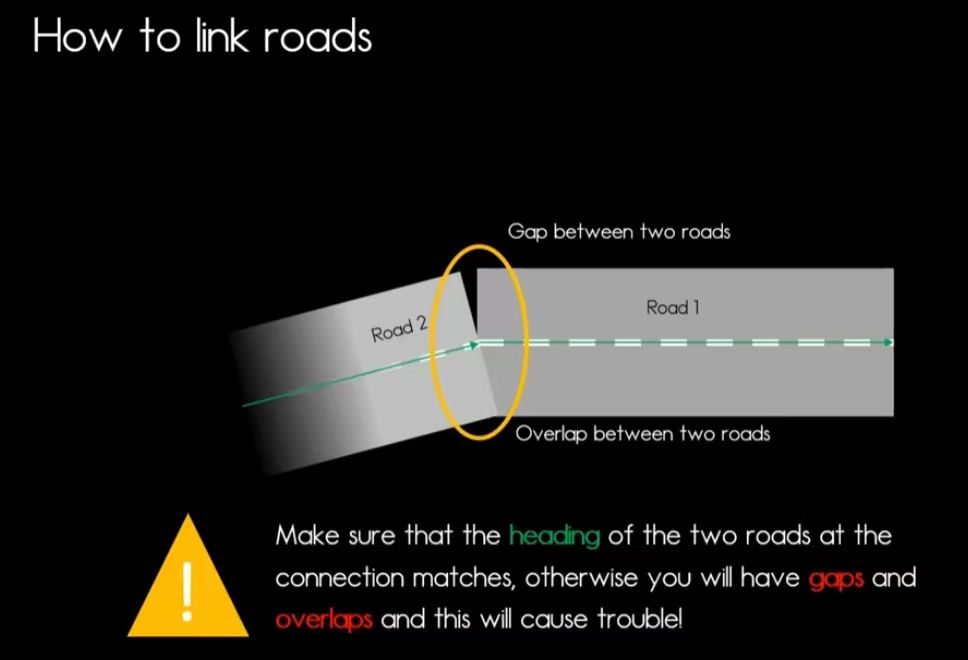
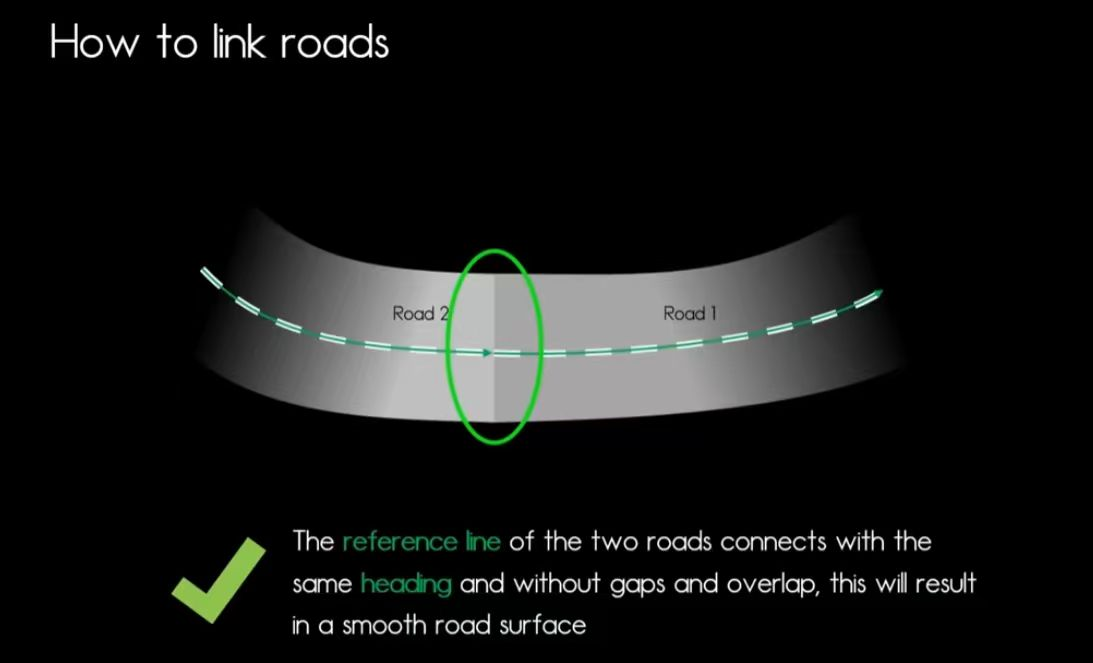
Add smooth road linkage diagram to Section 4

Changed region(s): [[0.186, 0.3333, 0.9298, 0.7273], [0.124, 0.7879, 0.9607, 0.9697], [0.031, 0.0303, 0.4029, 0.0909]]

diff --git a/WL-2/OpenDRIVE_Details.html b/WL-2/OpenDRIVE_Details.html
@@ -17,7 +17,7 @@
 
     <div class="card">
         <h2>1. 基本概念与 XML 整体结构</h2>
-        <p><strong>基本概念</strong>：OpenDRIVE 是一个基于 XML 的道路网络描述标准，核心在于通过<strong>参数化参考线 (Reference Line)</strong> 来定义道路结构。</p>
+        <p><strong>基本概念</strong>：OpenDRIVE 是一个基于 XML 的道路网络描述标准，核心在于通过参数化参考线定义道路。</p>
         <div class="diagram"><img src="xml_structure.jpg" alt="OpenDRIVE XML Structure"></div>
     </div>
 
@@ -31,16 +31,19 @@
         <img src="line_example.jpg" alt="Line Primitive Example">
         <div class="data-block">&lt;geometry length="57.3"&gt;&lt;line/&gt;&lt;/geometry&gt;</div>
     </div>
+    
     <div class="card">
         <h2>Arc (圆弧)</h2>
         <img src="arc_example.jpg" alt="Arc Primitive Example">
         <div class="data-block">&lt;geometry length="9.23"&gt;&lt;arc curvature="-0.127"/&gt;&lt;/geometry&gt;</div>
     </div>
+    
     <div class="card">
         <h2>Spiral (螺旋线)</h2>
         <img src="spiral_example.jpg" alt="Spiral Primitive Example">
         <div class="data-block">&lt;geometry length="1.32"&gt;&lt;spiral curvStart="0.0" curvEnd="0.2"/&gt;&lt;/geometry&gt;</div>
     </div>
+    
     <div class="card">
         <h2>Parametric Cubic Polynomial (参数化三次多项式)</h2>
         <img src="paramPoly3_example.jpg" alt="Parametric Cubic Polynomial Example">
@@ -55,9 +58,8 @@
     <h1>4. Road Linkage (道路连接)</h1>
     <div class="card">
         <h2>基础拓扑连接</h2>
-<div class="diagram"><img src="road_linkage_topology.jpg" alt="Road Linkage Topology"></div>
         <p>定义道路间的简单先后继关系，通过 <code>&lt;link&gt;</code> 标签建立前后继道路的索引。</p>
-        <div class="diagram"><img src="road_linkage_simple.jpg" alt="Road Linkage: Roads with roads"></div>
+        <div class="diagram"><img src="road_linkage_topology.jpg" alt="Road Linkage: Roads with roads"></div>
         <div class="data-block">
             &lt;road rule="RHT" length="100.0" id="1" junction="-1" &gt;<br>
             &nbsp;&nbsp;&lt;link&gt;<br>
@@ -68,18 +70,14 @@
         </div>
     </div>
     <div class="card">
-        <h2>平滑连接规范 (Smooth Road Linkage)</h2>
-        <div class="diagram">
-            <img src="road_linkage_smooth.jpg" alt="Standard Engineering Connectivity">
-        </div>
-        <p><strong>工程规范</strong>：这是 OpenDRIVE 连接的标准图示。连接点处的航向角 (Heading) 必须匹配，确保路径连续且无间隙，是仿真稳定性的前提。</p>
+        <h2>路口连接 (Junction Linkage)</h2>
+        <div class="diagram"><img src="road_linkage_junction.jpg" alt="Road Linkage with Junction"></div>
+        <p>对于复杂路口，OpenDRIVE 通过 <code>junction</code> 标签来管理多条道路的逻辑交叉与物理过渡。</p>
     </div>
     <div class="card">
-        <h2>警告：连接重叠 (Overlap Warning)</h2>
-        <div class="diagram">
-            <img src="road_overlap_warning.jpg" alt="Road Linkage Overlap Warning">
-        </div>
-        <p><strong>严禁事项</strong>：连接处的参考线重叠 (Overlap) 或不匹配，将导致计算冗余与几何冲突。</p>
+        <h2>平滑连接规范 (How to link roads)</h2>
+        <div class="diagram"><img src="road_linkage_smooth.jpg" alt="Smooth Road Surface"></div>
+        <p><strong>工程规范</strong>：两条道路的参考线在连接处必须具有<strong>相同的航向角 (heading)</strong>，且不产生<strong>间隙 (gaps)</strong> 或 <strong>重叠 (overlap)</strong>，从而确保路面平滑，维持仿真动力学的准确性。</p>
     </div>
 
     <a href="Road_Geometry.html" class="back-link">&larr; 返回首页</a>